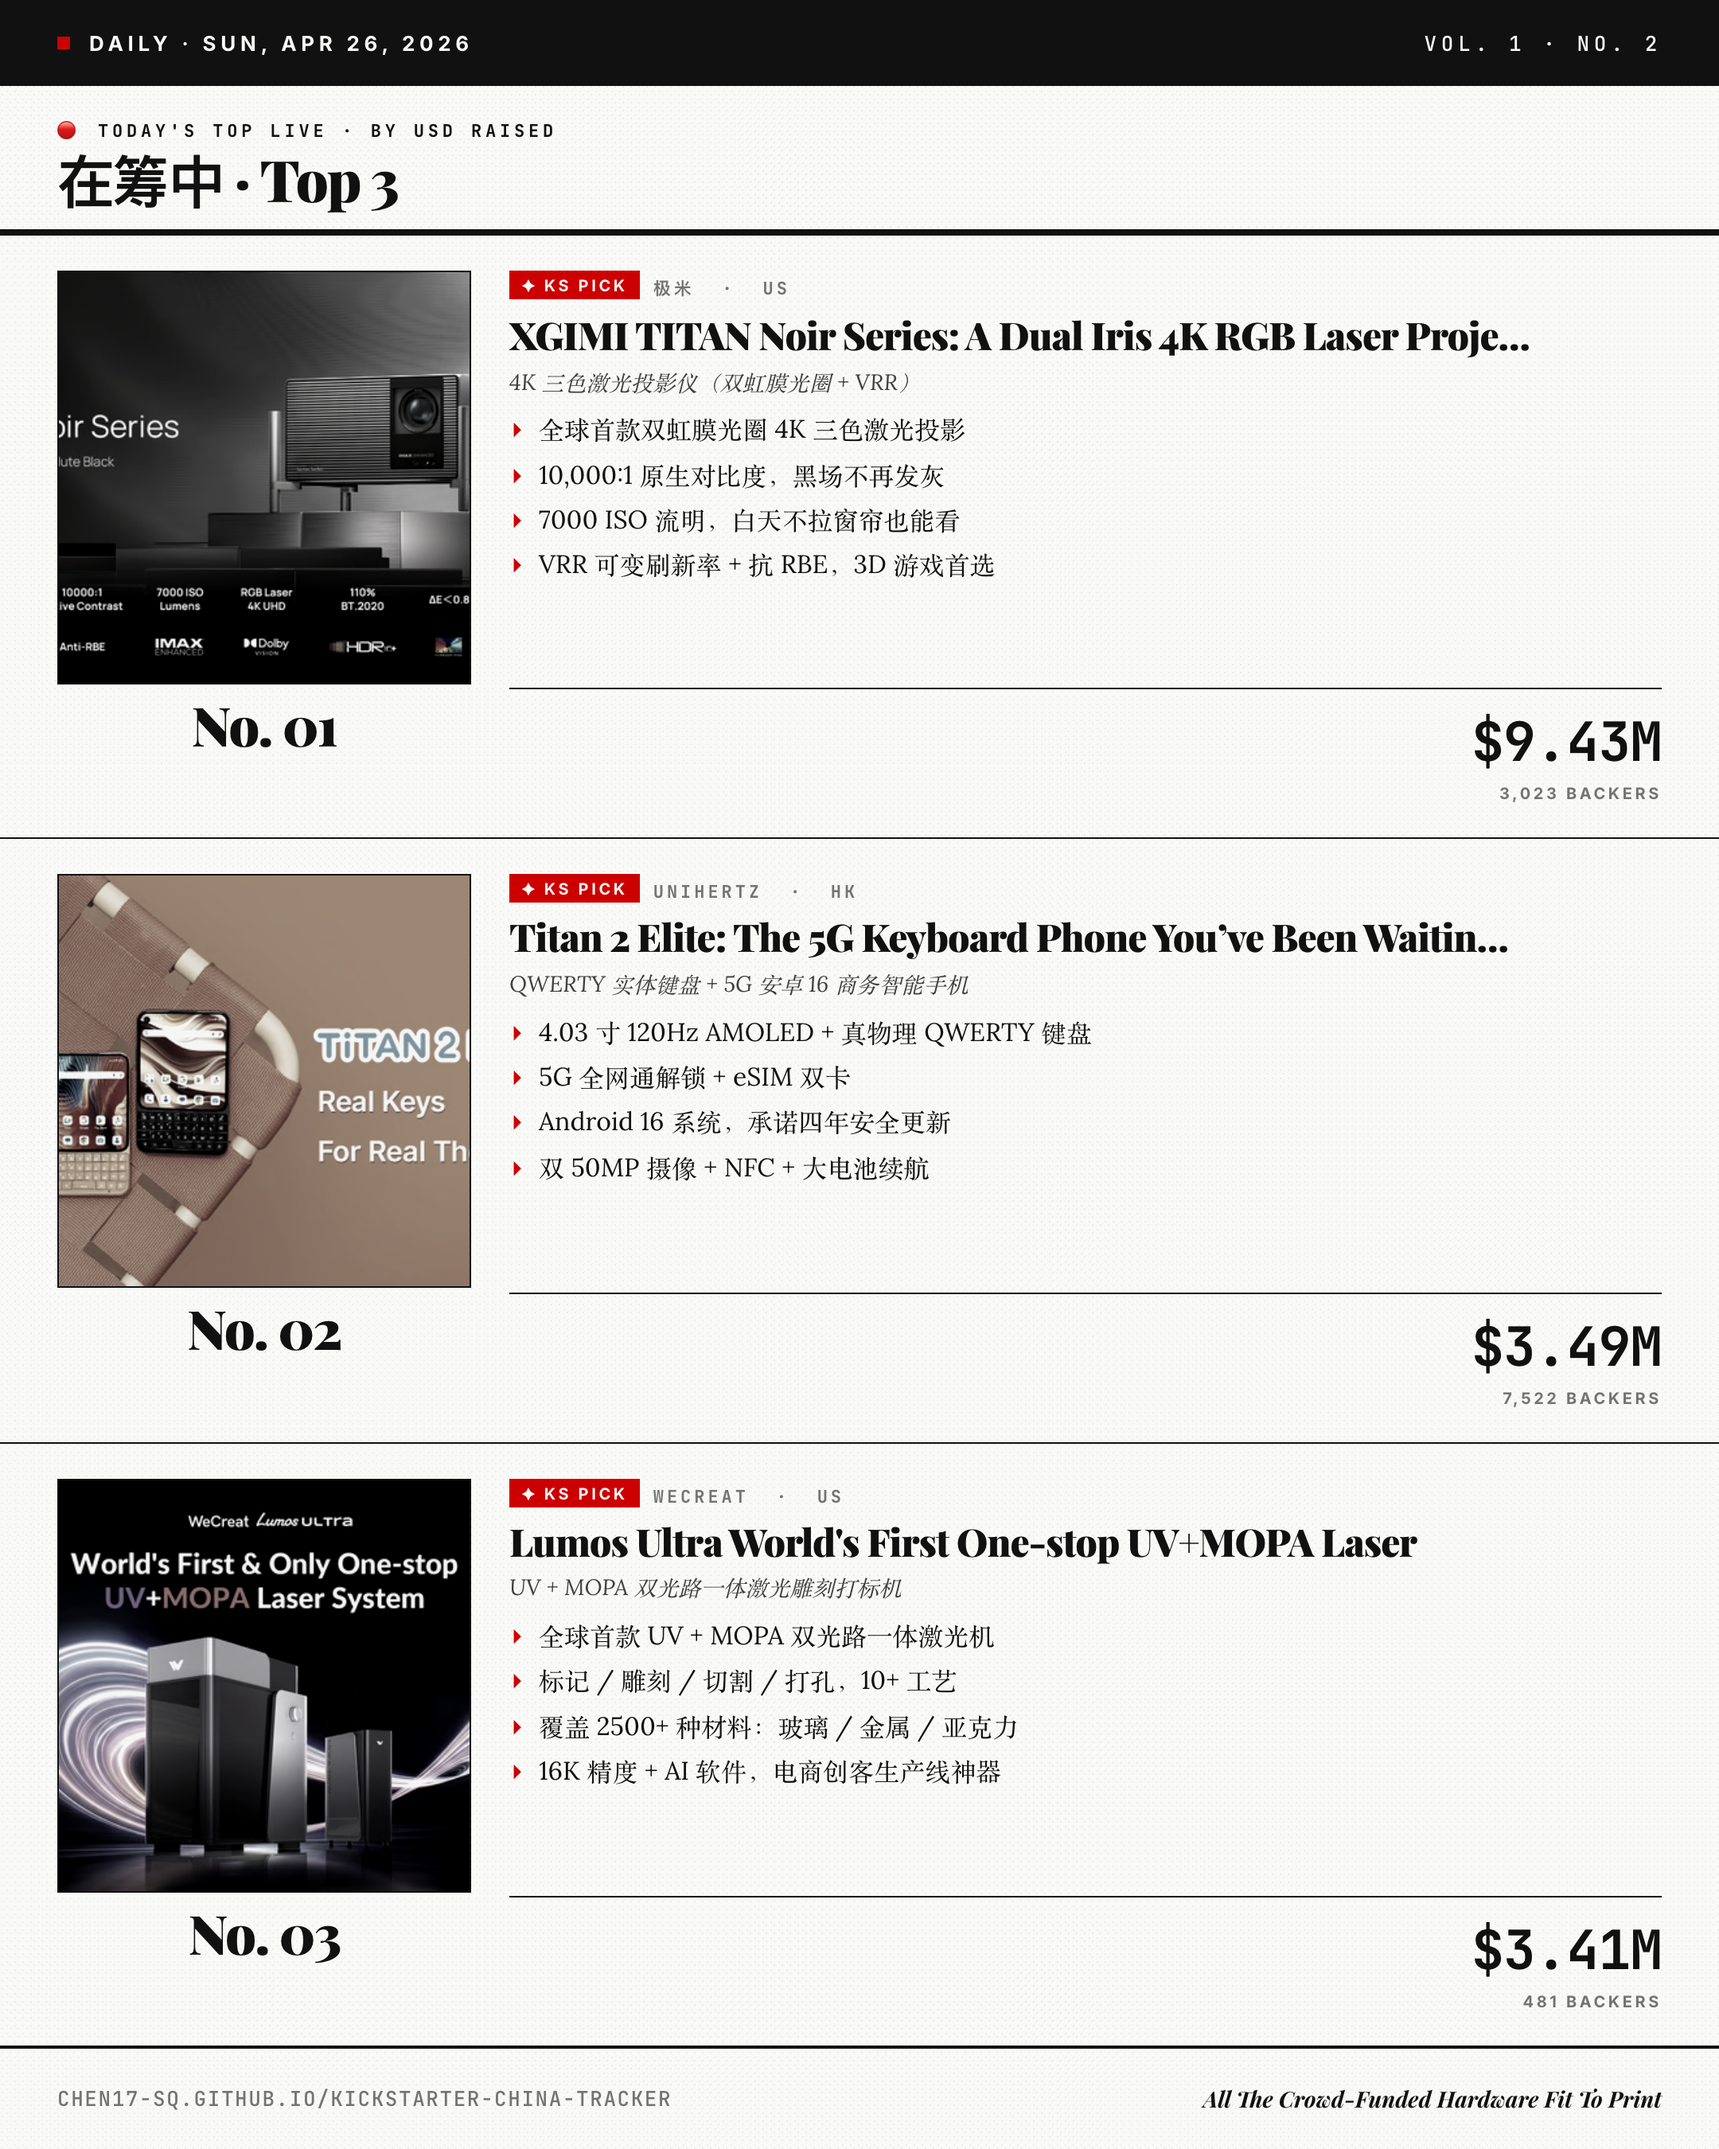
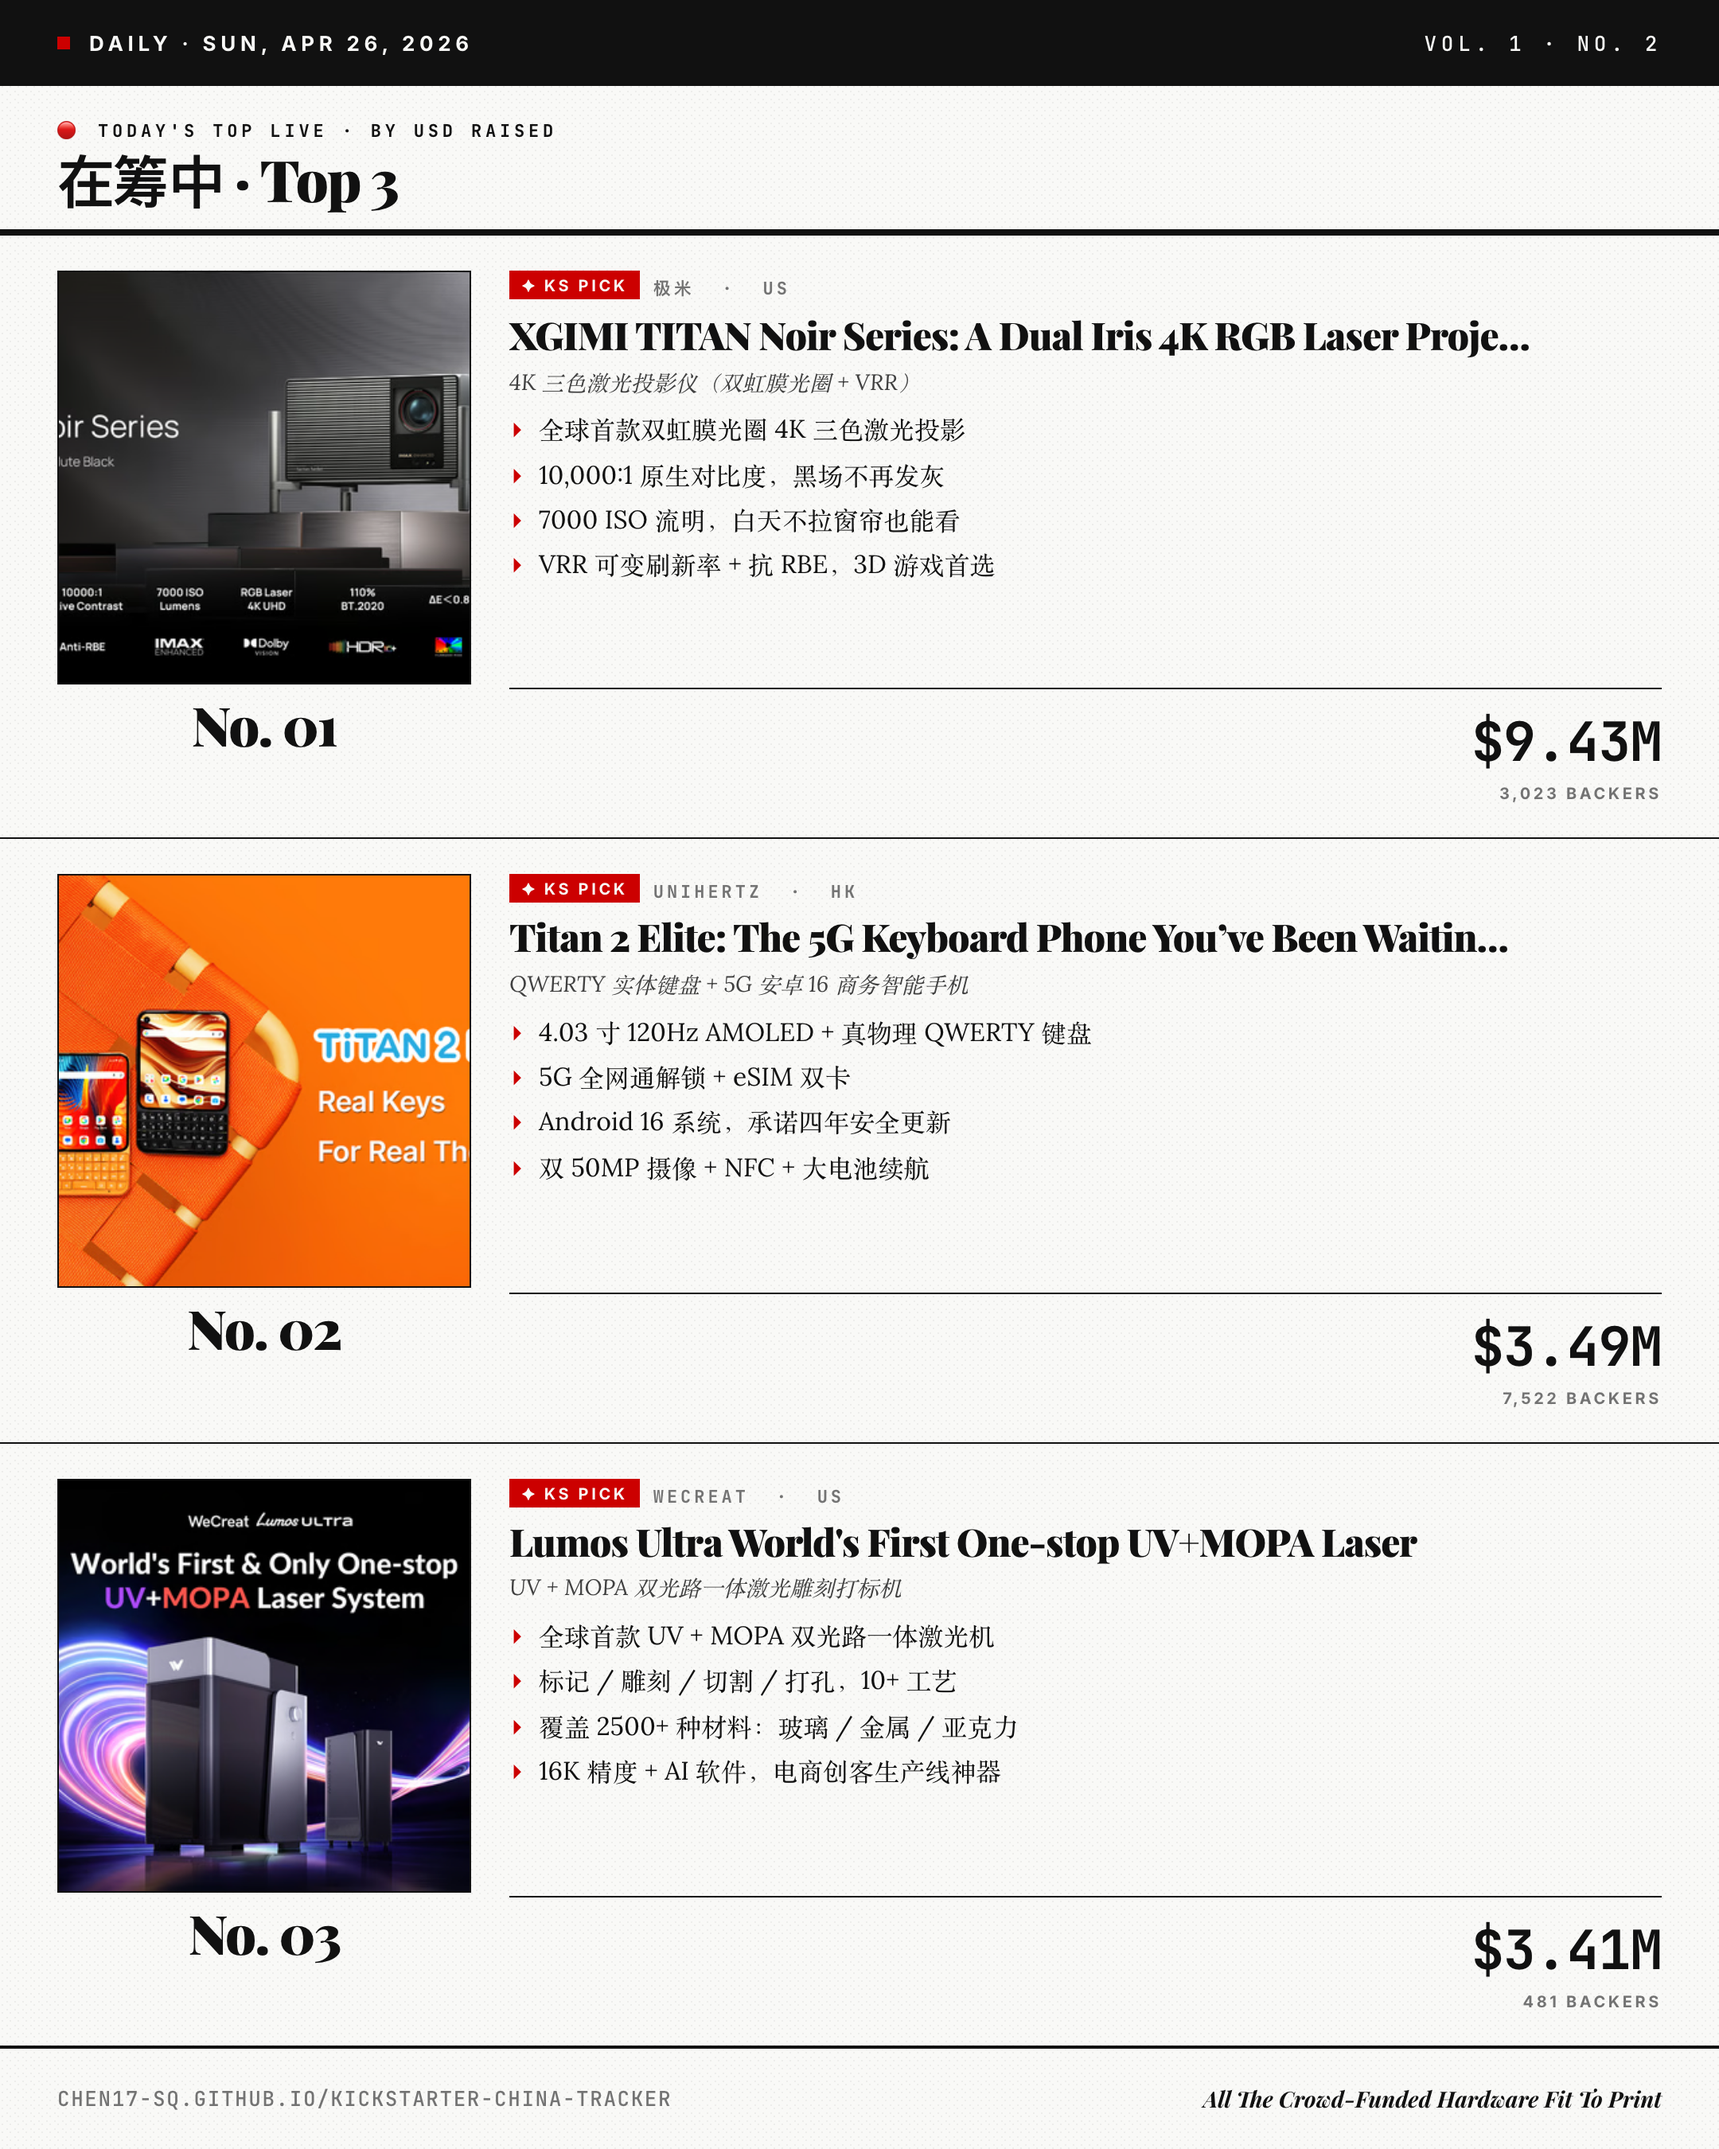
fix(social): preserve original product image colors (drop grayscale filter)
User: '产品图的颜色你不能调啊，你要保持原有的图的颜色呀'.

I was applying filter:grayscale(.85) contrast(1.1) brightness(.96) to KS
hero images on detail slides + hero block, intending to fit the
Newsprint monochrome aesthetic. The user is right — for product images
specifically the original color is the SIGNAL (red prototype, green
PCB, brushed aluminum, etc.), and washing it out destroys the very
reason the user is sharing the image.

Drop the filter entirely. Image renders in its native KS-CDN colors;
the surrounding chrome (border, edition strip, rank badge, typography)
still carries the Newsprint identity, so the slide reads as part of the
publication without flattening the product photo.

Changed region(s): [[0.031, 0.4044, 0.2792, 0.6222], [0.031, 0.7156, 0.2792, 0.9022], [0.2481, 0.28, 0.2792, 0.3111]]

diff --git a/scraper/social.py b/scraper/social.py
@@ -305,7 +305,7 @@ def _hero_image_block(image_url: str | None) -> str:
                 border-bottom:4px solid {INK}">
       <img src="{_esc(image_url)}"
            style="width:100%;height:100%;object-fit:cover;display:block;
-                  filter:grayscale(0.85) contrast(1.1) brightness(.96)"
+                  /* original product colors preserved per user spec */"
            alt=""/>
     </div>"""
 
@@ -347,7 +347,7 @@ def _detail_row(rank: int, p: dict, *, kind: str, hl_map: dict) -> str:
     image_html = (
         f'<img src="{_esc(image_url)}" style="width:100%;height:100%;'
         f'object-fit:cover;display:block;'
-        f'filter:grayscale(0.85) contrast(1.1) brightness(.96)" alt=""/>'
+        f'/* original product colors preserved per user spec */" alt=""/>'
         if image_url else
         f'<div style="width:100%;height:100%;background:{MUTED};display:flex;'
         f'align-items:center;justify-content:center;font-family:Lora,serif;'
